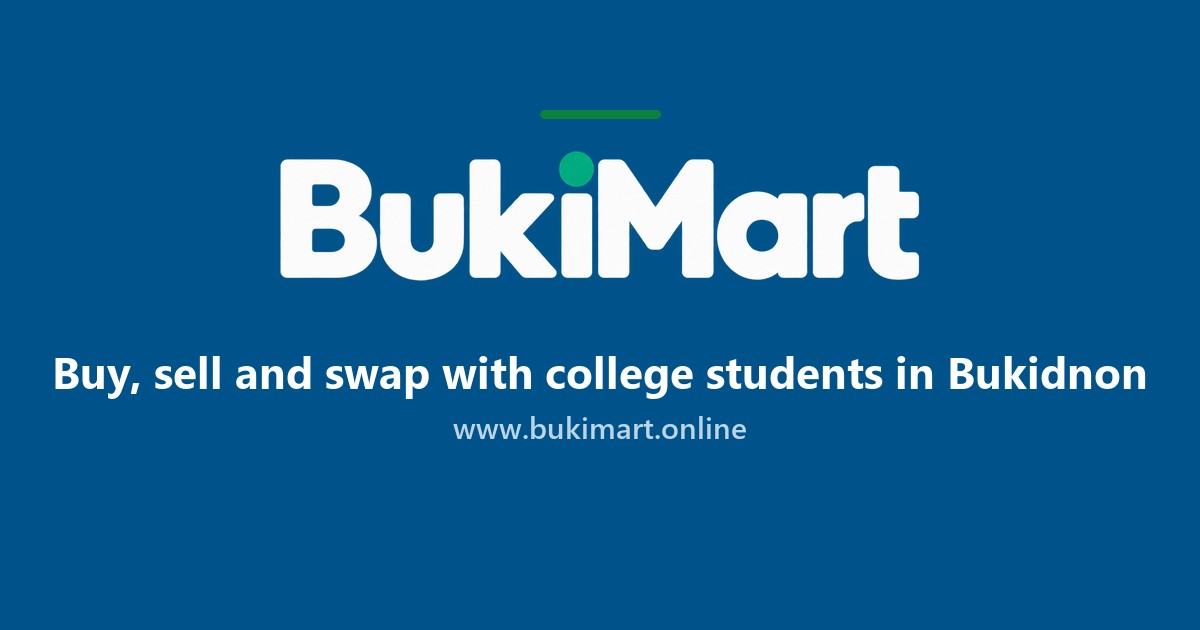
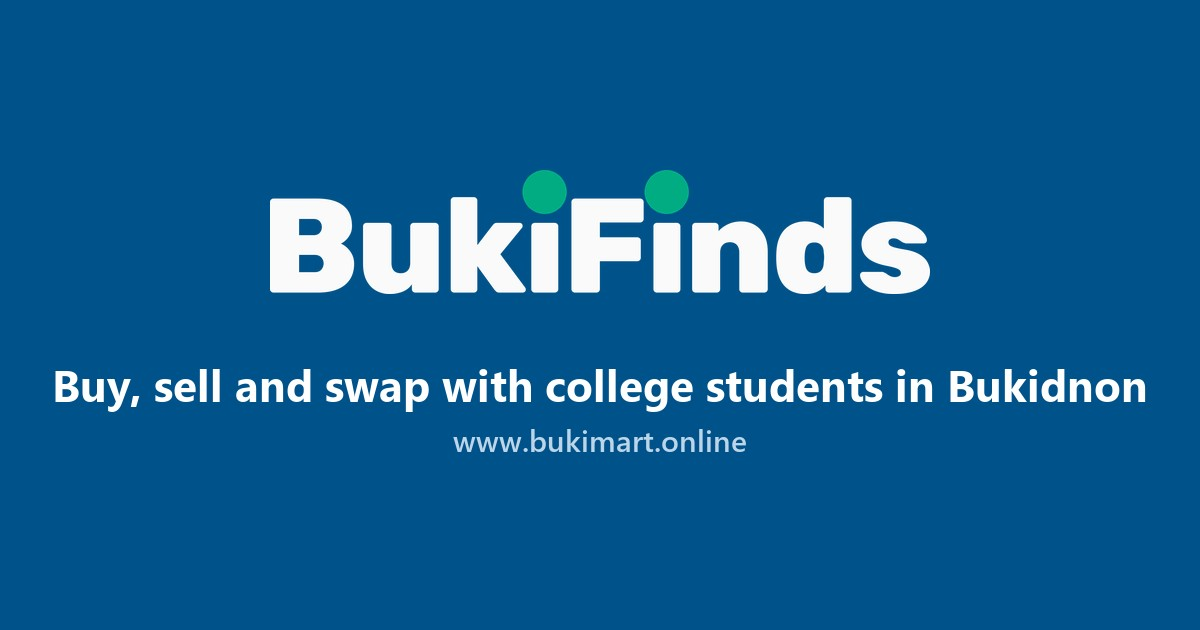
update web name and domain

Changed region(s): [[0.2158, 0.2413, 0.8017, 0.4825], [0.0308, 0.5429, 0.9558, 0.7238], [0.4317, 0.1508, 0.555, 0.2111]]

diff --git a/app/page.jsx b/app/page.jsx
@@ -4,6 +4,7 @@ import { BROWSE_STATUSES, LISTING_WITH_IMAGES, coverImage } from '@/lib/listings
 import { BUKIDNON_SCHOOLS } from '@/lib/schools'
 import { FREE_ACTIVE_LISTINGS, PAYMENT_METHODS, SUBSCRIPTION_PRICE } from '@/lib/subscription'
 import LandingRack from '@/app/components/LandingRack'
+import VenturePartners from '@/app/components/VenturePartners'
 import { SITE_DESCRIPTION, SITE_NAME, SITE_URL } from '@/lib/site'
 import {
   BrowseIcon,
@@ -18,13 +19,13 @@ import {
 
 // What Google shows for the home page: the words students actually search for, in plain English.
 export const metadata = {
-  title: { absolute: 'BukiMart – Buy, Sell & Swap with College Students in Bukidnon' },
+  title: { absolute: 'BukiFinds – Buy, Sell & Swap with College Students in Bukidnon' },
   description:
     'The student marketplace for Bukidnon. Buy and sell pre-loved uniforms, school shoes, books, gadgets and student services from BukSU, CMU and colleges in Malaybalay and Valencia.',
   alternates: { canonical: '/' },
 }
 
-// Tells search engines what BukiMart is, and lets Google offer a search box that opens Browse.
+// Tells search engines what BukiFinds is, and lets Google offer a search box that opens Browse.
 const jsonLd = {
   '@context': 'https://schema.org',
   '@graph': [
@@ -193,7 +194,7 @@ export default async function LandingPage() {
               Not just uniforms and books.
             </h2>
             <p className="mt-4 max-w-[42ch] text-[15px] leading-relaxed text-muted">
-              If a student in Bukidnon would pay for it, trade for it, or book it, it can go on BukiMart.
+              If a student in Bukidnon would pay for it, trade for it, or book it, it can go on BukiFinds.
             </p>
           </div>
           <ul className="divide-y divide-dashed divide-line border-y border-line">
@@ -414,22 +415,25 @@ export default async function LandingPage() {
       </section>
 
       <section className="py-10">
-        {/* The label sits right above the names so the credits read as one group. */}
-        <div className={wrap}>
-          <p className="text-xs font-medium text-muted">Made by students in Bukidnon</p>
-          <ul className="mt-3 flex flex-col gap-4 sm:flex-row sm:gap-12">
-            {CREDITS.map((c) => (
-              <li key={c.email} className="text-sm">
-                <p className="font-semibold text-ink">
-                  {c.name} <span className="font-normal text-muted">· {c.role}</span>
-                </p>
-                <a href={`mailto:${c.email}`} className="mt-0.5 inline-flex items-center gap-1.5 text-primary hover:underline">
-                  <MailIcon className="h-3.5 w-3.5" />
-                  {c.email}
-                </a>
-              </li>
-            ))}
-          </ul>
+        {/* Two credit groups: the students behind the venture, and the students who built the site. */}
+        <div className={`${wrap} grid gap-8 md:grid-cols-2 md:gap-12`}>
+          <VenturePartners />
+          <div>
+            <p className="text-xs font-medium text-muted">Made by students in Bukidnon</p>
+            <ul className="mt-3 flex flex-col gap-4">
+              {CREDITS.map((c) => (
+                <li key={c.email} className="text-sm">
+                  <p className="font-semibold text-ink">
+                    {c.name} <span className="font-normal text-muted">· {c.role}</span>
+                  </p>
+                  <a href={`mailto:${c.email}`} className="mt-0.5 inline-flex items-center gap-1.5 text-primary hover:underline">
+                    <MailIcon className="h-3.5 w-3.5" />
+                    {c.email}
+                  </a>
+                </li>
+              ))}
+            </ul>
+          </div>
         </div>
       </section>
     </main>

diff --git a/app/login/page.jsx b/app/login/page.jsx
@@ -125,16 +125,16 @@ export default function LoginPage() {
   return (
     <main className="flex flex-1 items-center justify-center bg-surface px-4 py-8 sm:py-12">
       <div className="w-full max-w-md overflow-hidden rounded-2xl border border-line bg-white shadow-xl">
-        {/* Card header: the BukiMart wordmark in navy (the navbar uses the white one) */}
+        {/* Card header: the BukiFinds wordmark in navy (the navbar uses the white one) */}
         <div className="bg-white p-6 pb-2 text-center sm:p-8 sm:pb-3">
           <div className="mx-auto mb-3 flex items-center justify-center">
             <Image
-              src="/bukimart-wordmark.png"
-              alt="BukiMart"
-              width={1477}
-              height={342}
+              src="/bukifinds-wordmark.png"
+              alt="BukiFinds"
+              width={1955}
+              height={448}
               priority
-              className="h-9 w-auto object-contain sm:h-10"
+              className="h-10 w-auto object-contain sm:h-11"
             />
           </div>
           <h1 className="text-lg font-bold tracking-tight text-ink sm:text-xl">
@@ -266,7 +266,7 @@ export default function LoginPage() {
                   <Link href="/privacy" target="_blank" className="font-semibold text-primary hover:underline">
                     Privacy Policy
                   </Link>{' '}
-                  and agree that BukiMart may collect and use my information as it describes.
+                  and agree that BukiFinds may collect and use my information as it describes.
                 </span>
               </label>
             )}
@@ -288,7 +288,7 @@ export default function LoginPage() {
               disabled={submitting}
               className="mt-1 rounded-xl bg-primary py-3 text-sm font-bold text-white shadow-xs transition-all hover:bg-primary-hover hover:shadow-md disabled:opacity-60"
             >
-              {submitting ? 'Please wait…' : mode === 'login' ? 'Log in to BukiMart' : 'Create Account'}
+              {submitting ? 'Please wait…' : mode === 'login' ? 'Log in to BukiFinds' : 'Create Account'}
             </button>
           </form>
 

diff --git a/app/item/[id]/page.jsx b/app/item/[id]/page.jsx
@@ -69,7 +69,7 @@ function ReviewLinkPanel({ listing }) {
       {state.link ? (
         <div className="mt-3 flex flex-wrap items-center gap-2">
           <input readOnly value={state.link} onFocus={(e) => e.target.select()} aria-label="Review link" className="min-w-0 flex-1 rounded-sm border border-line bg-white px-2.5 py-2 text-sm text-ink" />
-          <ShareButton title="Review your BukiMart seller" text={`How was buying "${listing.title}"? Leave a quick review:`} url={state.link} label="Send Link" />
+          <ShareButton title="Review your BukiFinds seller" text={`How was buying "${listing.title}"? Leave a quick review:`} url={state.link} label="Send Link" />
         </div>
       ) : (
         <button
@@ -216,7 +216,7 @@ function ContactAction({ listing, number, compact = false, signedOut = false }) 
     )
   } else if (listing.seller_email) {
     primary = (
-      <a href={`mailto:${listing.seller_email}?subject=${encodeURIComponent(`BukiMart No. ${number}: ${listing.title}`)}`} className={filled}>
+      <a href={`mailto:${listing.seller_email}?subject=${encodeURIComponent(`BukiFinds No. ${number}: ${listing.title}`)}`} className={filled}>
         <MailIcon />
         Email Seller
       </a>
@@ -543,7 +543,7 @@ export default function ItemPage() {
                     </span>
                   </span>
                 )}
-                <ShareButton title={listing.title} text={`${listing.title} · ${priceOrSwap(listing)} on BukiMart`} />
+                <ShareButton title={listing.title} text={`${listing.title} · ${priceOrSwap(listing)} on BukiFinds`} />
                 {!isOwner && (
                   <span className="ml-auto">
                     <ReportDialog listingId={listing.id} user={user} />

diff --git a/lib/site.js b/lib/site.js
@@ -1,8 +1,19 @@
 // Where the site lives and who answers privacy questions. Used by metadata, the sitemap,
 // robots.txt and the Privacy Policy. Set NEXT_PUBLIC_SITE_URL in Vercel if the domain changes.
 export const SITE_URL = (process.env.NEXT_PUBLIC_SITE_URL || 'https://www.bukimart.online').replace(/\/$/, '')
-export const SITE_NAME = 'BukiMart'
+export const SITE_NAME = 'BukiFinds'
 export const SITE_DESCRIPTION =
   'Buy, sell and swap pre-loved uniforms, school shoes, books, gadgets and student services with college students across Bukidnon, from BukSU and CMU to Valencia.'
 export const PRIVACY_EMAIL = 'topedarell13@gmail.com'
 export const PRIVACY_UPDATED = 'September 27, 2026'
+
+// The students who proposed BukiFinds as their entrepreneurship venture, in the order they gave.
+// Names only for now: roles are still being confirmed with them.
+export const VENTURE_PARTNERS = [
+  'Frazen A. Maisog',
+  'Shantara Nikka Kyle Juarez',
+  'Thrisya Mae Y. Alia',
+  'Britney Jean C. Alagenio',
+  'Elvie Jane L. Jaducana',
+]
+export const VENTURE_PARTNERS_NOTE = 'BukiFinds was proposed by these students as their entrepreneurship venture.'

diff --git a/app/components/ListingCard.jsx b/app/components/ListingCard.jsx
@@ -5,7 +5,7 @@ import SaveButton from '@/app/components/SaveButton'
 import { schoolLocationLabel } from '@/lib/schools'
 import { CameraIcon, PinIcon, SwapIcon } from '@/app/components/icons'
 
-// Price in brand green, as in the team's BukiMart prototype; swaps get a drawn Swap mark
+// Price in brand green, as in the team's BukiFinds prototype; swaps get a drawn Swap mark
 // (words in the price slot would read as a price).
 function BigNumber({ listing, sold }) {
   if (isSwap(listing)) {
@@ -23,7 +23,7 @@ function BigNumber({ listing, sold }) {
   )
 }
 
-// Photo-first card following the team's BukiMart prototype: bold title, green price, then
+// Photo-first card following the team's BukiFinds prototype: bold title, green price, then
 // "CMU • Musuan, Maramag" and a quiet size/condition line. `preview` renders it without a link.
 export function ListingIdCard({ listing, cover, preview = false }) {
   const photo = cover === undefined ? coverImage(listing) : cover

diff --git a/app/components/Navbar.jsx b/app/components/Navbar.jsx
@@ -11,12 +11,12 @@ import { BrowseIcon, HeartIcon, ListingsIcon, PlusIcon, UserIcon } from '@/app/c
 function Mark() {
   return (
     <Image
-      src="/BUKI.png"
-      alt="BukiMart"
-      width={160}
-      height={80}
+      src="/bukifinds-wordmark-white.png"
+      alt="BukiFinds"
+      width={1955}
+      height={448}
       priority
-      className="h-10 w-auto object-contain transition-transform hover:scale-[1.02] sm:h-11"
+      className="h-5 w-auto object-contain transition-transform hover:scale-[1.02] sm:h-[22px]"
     />
   )
 }
@@ -49,7 +49,7 @@ export default function Navbar() {
         <Link
           href={mounted && user ? '/browse' : '/'}
           className="flex items-center text-white"
-          aria-label={mounted && user ? 'BukiMart, browse listings' : 'BukiMart home'}
+          aria-label={mounted && user ? 'BukiFinds, browse listings' : 'BukiFinds home'}
         >
           <Mark />
         </Link>

diff --git a/app/components/VenturePartners.jsx b/app/components/VenturePartners.jsx
@@ -1,0 +1,23 @@
+'use client'
+
+import { useUser } from '@/lib/useAuth'
+import { VENTURE_PARTNERS, VENTURE_PARTNERS_NOTE } from '@/lib/site'
+
+// The venture partners credit, shown on the landing page to visitors who aren't logged in.
+// While the session is still loading it renders nothing, so logged-in students never see it flash.
+export default function VenturePartners() {
+  const { user, loading } = useUser()
+  if (loading || user) return null
+
+  return (
+    <div>
+      <p className="text-xs font-medium text-muted">Venture partners</p>
+      <p className="mt-1 max-w-[52ch] text-sm text-muted">{VENTURE_PARTNERS_NOTE}</p>
+      <ul className="mt-3 space-y-1.5 text-sm font-semibold text-ink">
+        {VENTURE_PARTNERS.map((name) => (
+          <li key={name}>{name}</li>
+        ))}
+      </ul>
+    </div>
+  )
+}

diff --git a/app/subscribe/page.jsx b/app/subscribe/page.jsx
@@ -214,7 +214,7 @@ export default function SubscribePage() {
 
                 <li>
                   <p className="text-sm font-semibold text-ink">2. Upload your payment receipt screenshot</p>
-                  <p className="mt-1 text-xs text-muted">Make sure the amount, date and reference number are visible. Only you and the BukiMart team can see it.</p>
+                  <p className="mt-1 text-xs text-muted">Make sure the amount, date and reference number are visible. Only you and the BukiFinds team can see it.</p>
                   {preview ? (
                     <div className="relative mt-3 w-fit">
                       {/* eslint-disable-next-line @next/next/no-img-element */}

diff --git a/app/components/SiteFooter.jsx b/app/components/SiteFooter.jsx
@@ -12,7 +12,7 @@ export default function SiteFooter() {
     <footer className="border-t border-line bg-white">
       <div className="mx-auto flex w-full max-w-7xl flex-col gap-3 px-4 py-6 text-xs text-muted sm:px-6 md:flex-row md:items-start md:justify-between">
         <div className="max-w-[60ch] space-y-1">
-          <p>© {new Date().getFullYear()} BukiMart · Student marketplace in Bukidnon</p>
+          <p>© {new Date().getFullYear()} BukiFinds · Student marketplace in Bukidnon</p>
           <p>A student project. Not officially affiliated with any school, college or university.</p>
         </div>
         <nav aria-label="Footer" className="flex flex-wrap gap-x-5 gap-y-2">

diff --git a/app/review/[id]/page.jsx b/app/review/[id]/page.jsx
@@ -14,7 +14,7 @@ const WORDS = ['', 'Bad', 'Not great', 'Okay', 'Good', 'Great']
 const MESSAGES = {
   invalid: ['This review link isn’t valid.', 'Ask the seller to send you a fresh link from their listing.'],
   own: ['This is your own listing.', 'Send this link to your buyer on Messenger so they can review you.'],
-  reviewed: ['This sale already has a review.', 'Each sale gets one review. Thanks for keeping BukiMart trustworthy.'],
+  reviewed: ['This sale already has a review.', 'Each sale gets one review. Thanks for keeping BukiFinds trustworthy.'],
   gone: ['This listing has ended.', 'Sold listings are removed after 7 days, and the review link goes with it.'],
 }
 

diff --git a/app/components/ReportDialog.jsx b/app/components/ReportDialog.jsx
@@ -71,7 +71,7 @@ export default function ReportDialog({ listingId, user }) {
         {state.done ? (
           <div className="px-5 py-6">
             <p className="text-[15px] font-semibold">Thanks, we got your report.</p>
-            <p className="mt-1 text-sm text-muted">The BukiMart team will take a look. You won&rsquo;t see a reply here.</p>
+            <p className="mt-1 text-sm text-muted">The BukiFinds team will take a look. You won&rsquo;t see a reply here.</p>
             <button onClick={close} className="mt-5 min-h-11 w-full rounded-md bg-primary text-[15px] font-semibold text-white hover:bg-primary-hover">
               Done
             </button>

diff --git a/app/layout.tsx b/app/layout.tsx
@@ -22,7 +22,7 @@ const geistMono = Geist_Mono({
 
 export const metadata: Metadata = {
   metadataBase: new URL(SITE_URL),
-  // Pages set their own title; it shows as "Hoodie – ₱1,500 | BukiMart".
+  // Pages set their own title; it shows as "Hoodie – ₱1,500 | BukiFinds".
   title: {
     default: `${SITE_NAME} – Student marketplace in Bukidnon`,
     template: `%s | ${SITE_NAME}`,
@@ -30,7 +30,7 @@ export const metadata: Metadata = {
   description: SITE_DESCRIPTION,
   applicationName: SITE_NAME,
   keywords: [
-    "BukiMart",
+    "BukiFinds",
     "Bukidnon",
     "student marketplace",
     "buy and sell",
